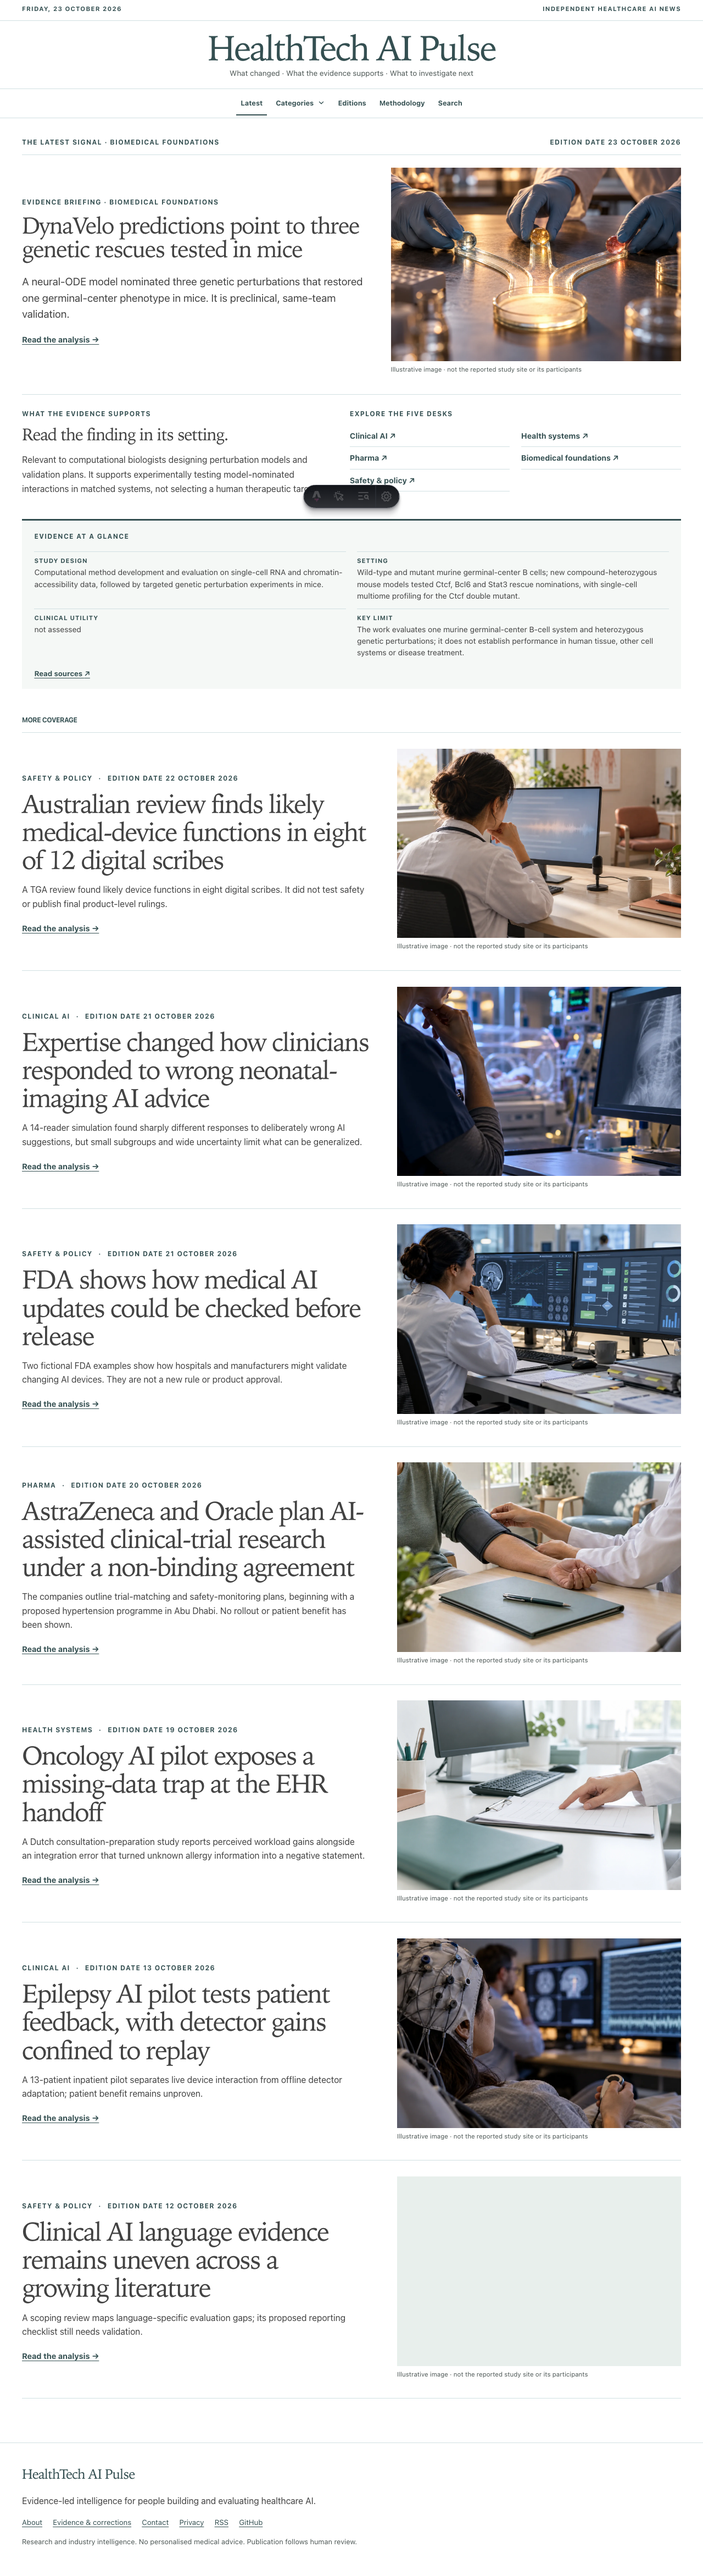
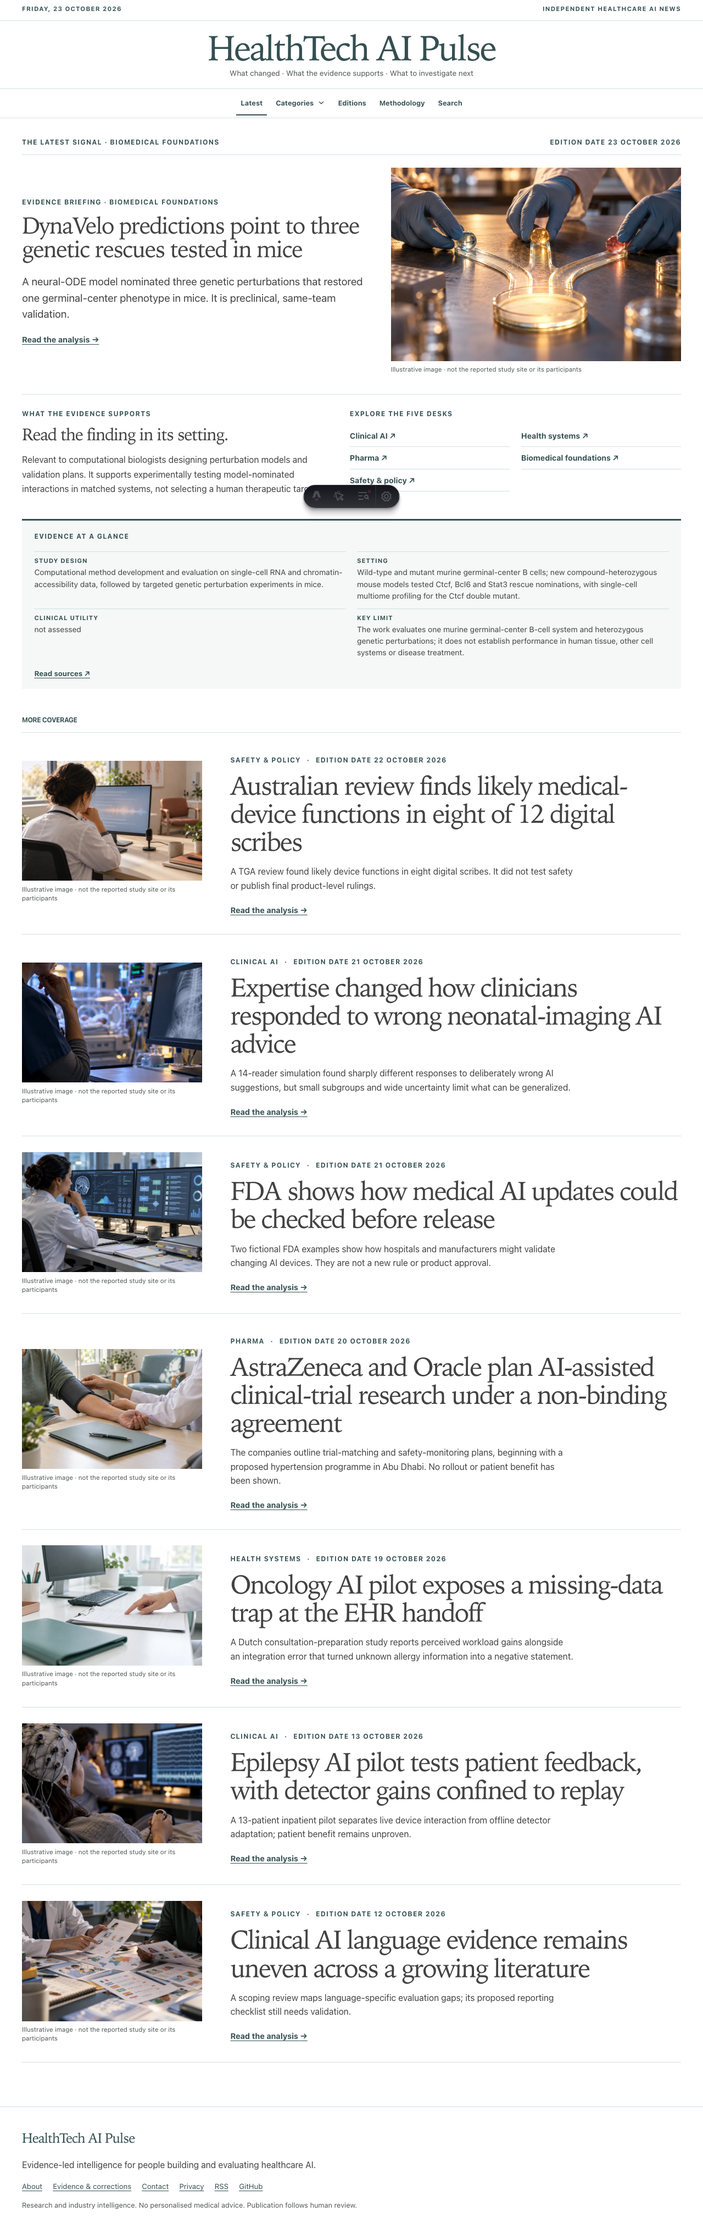
home: smaller thumbnail on left for More coverage stories
Swap story-row--visual grid order so the editorial illustration appears
first (left side) and shrink its column to 0.4fr so thumbnails are
smaller alongside story content. Regenerate desktop/mobile navigation
screenshots.

diff --git a/src/styles/publication.css b/src/styles/publication.css
@@ -376,7 +376,7 @@
 }
 .story-row--visual {
   display: grid;
-  grid-template-columns: minmax(0, 1.1fr) minmax(0, 0.9fr);
+  grid-template-columns: minmax(0, 0.4fr) minmax(0, 1fr);
   gap: clamp(1.5rem, 4vw, 4rem);
   align-items: center;
 }
